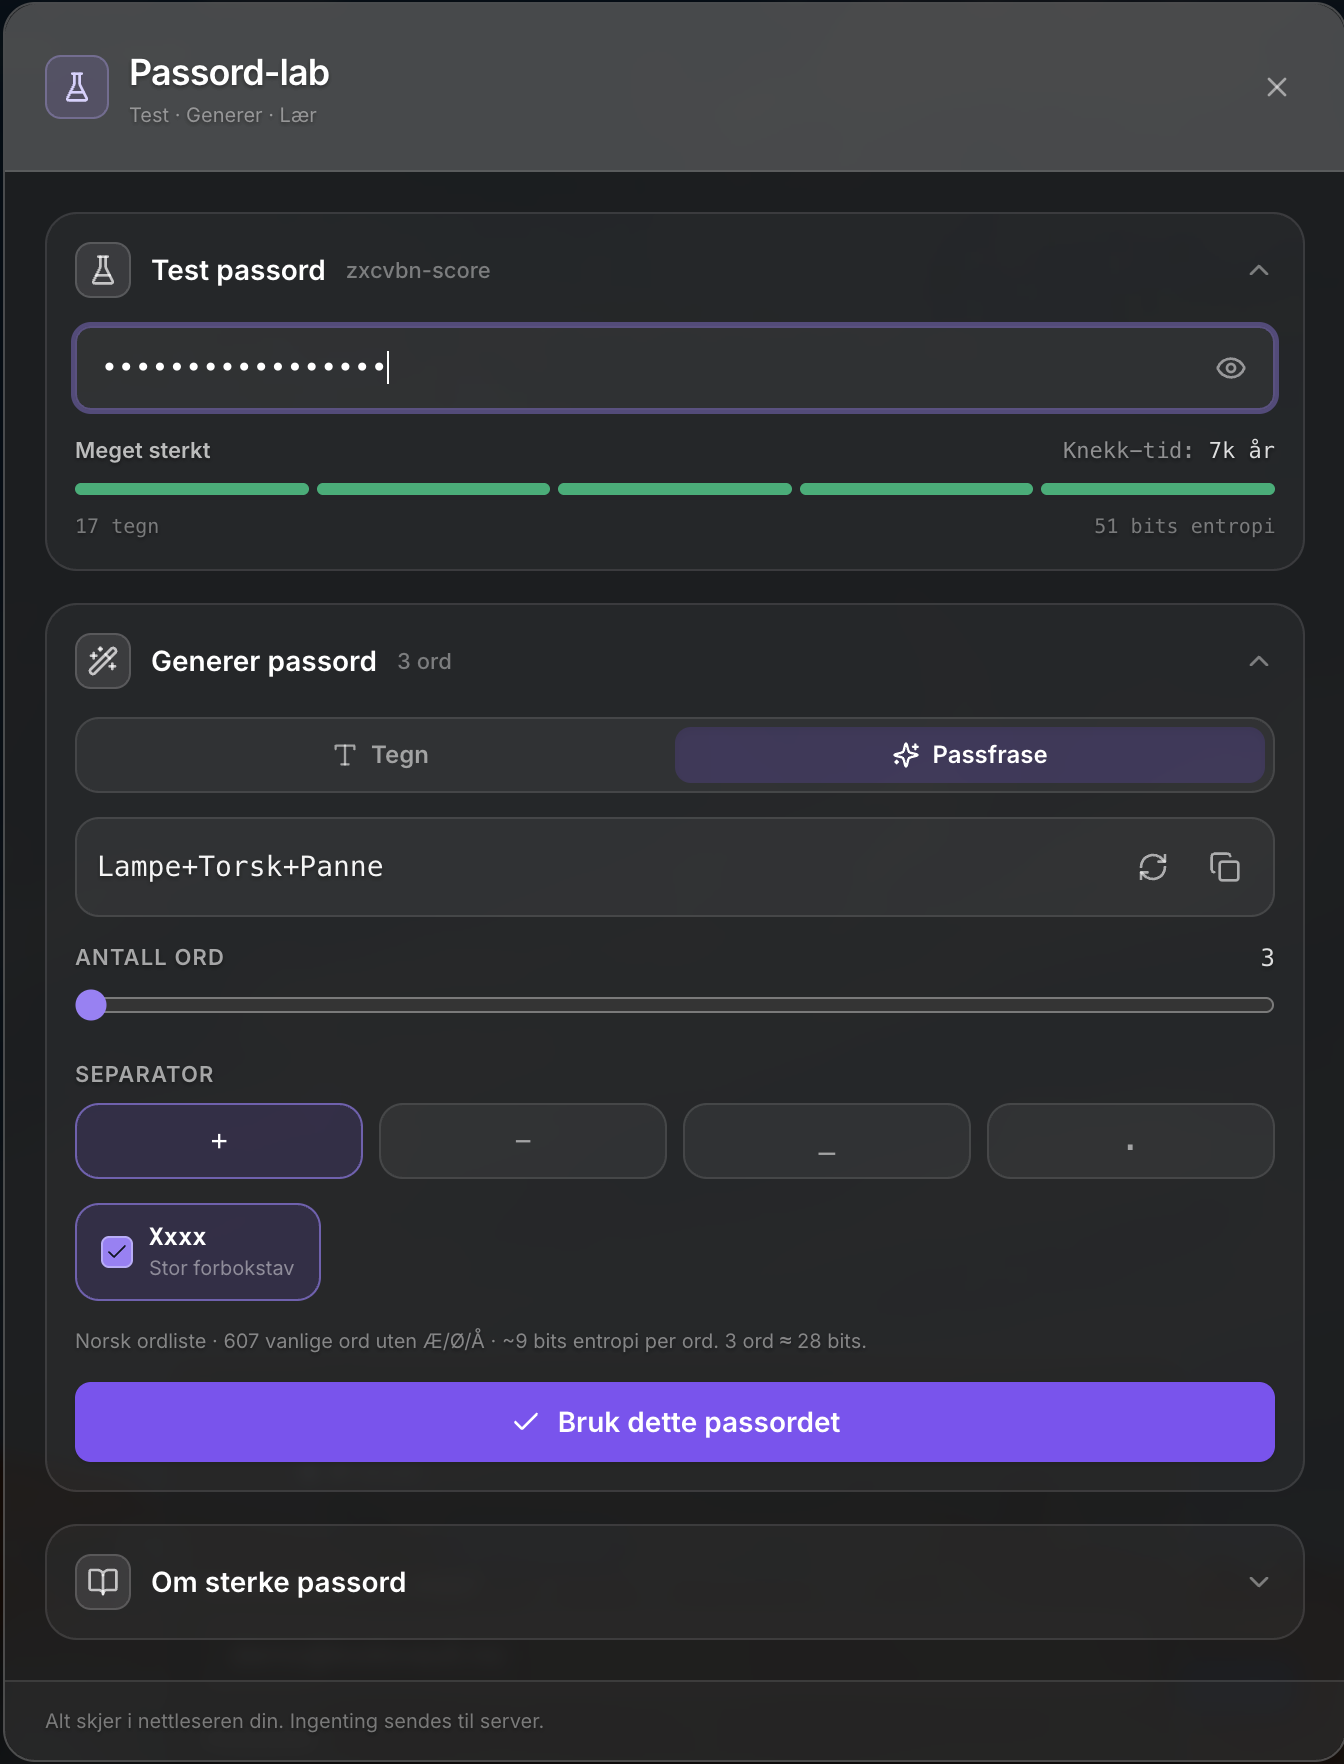
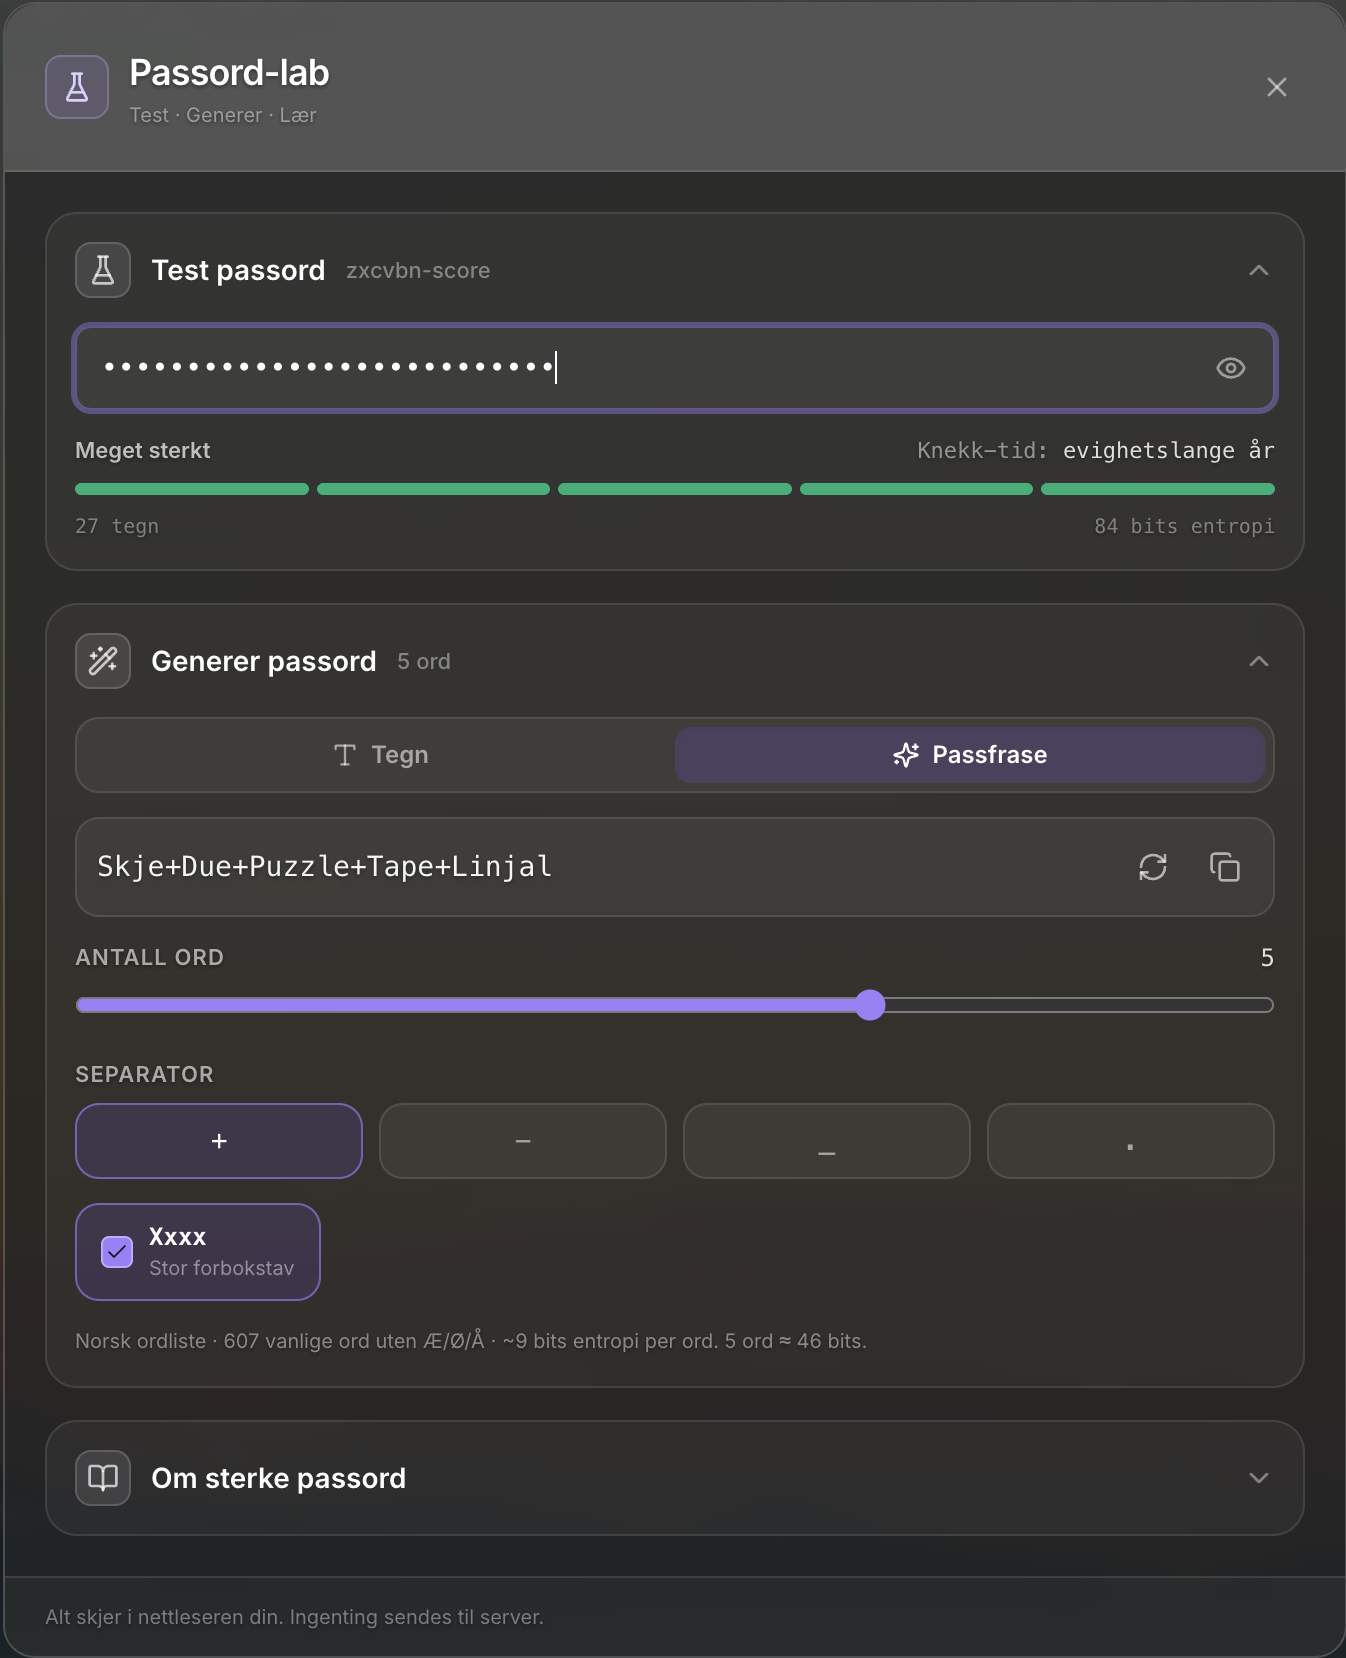
Showcase: Passord Lab v3 + backup-bilde, tre kort med fri høyde
- password-lab.png byttet til v3: 5-ords passfrase, 84 bits entropi,
  «evighetslange år». Erstatter v2 som viste svakere tall enn produktet
  faktisk leverer.
- backup.png inn som tredje kort — kryptert backup, Bitwarden-kompatibel
  CSV og permanent sletting. Visuelt bevis for FAQ 4 (ingen lock-in).
- AppShot bruker nå bildets naturlige høyde i stedet for fast 4:5.
  Skjermbildene spriker i format (0,81 til 1,18) og ble enten beskåret
  eller fikk store tomrom. Nå passer alle formater uten tilpasning.
- Grid utvidet fra to til tre kolonner.

De tre bildene forteller nå produktets livsløp: opprett, bruk, gå når du
vil — og speiler de tre prinsippene lenger opp på siden.

Verifisert: next build grønt.

Claude-Session: https://claude.ai/code/session_01DuJq2M8nKfYLM74qMw1WHt

diff --git a/frontend/components/ShowcaseSection.tsx b/frontend/components/ShowcaseSection.tsx
@@ -85,19 +85,19 @@ function AppShot({
       className="rounded-2xl overflow-hidden border border-white/12 bg-black/40 backdrop-blur-xl"
       style={{ boxShadow: "0 30px 70px -25px rgba(0,0,0,.7)" }}
     >
-      <div className="relative" style={{ aspectRatio: "4 / 5" }}>
-        {ok ? (
-          <img
-            src={src}
-            alt={alt}
-            loading="lazy"
-            onError={() => setOk(false)}
-            className="absolute inset-0 h-full w-full object-contain"
-          />
-        ) : (
+      {ok ? (
+        <img
+          src={src}
+          alt={alt}
+          loading="lazy"
+          onError={() => setOk(false)}
+          className="block w-full h-auto"
+        />
+      ) : (
+        <div className="relative" style={{ aspectRatio: "4 / 5" }}>
           <Pending label={pending} />
-        )}
-      </div>
+        </div>
+      )}
     </div>
   );
 }
@@ -136,7 +136,7 @@ export function ShowcaseSection({ locale }: ShowcaseSectionProps) {
           </figcaption>
         </figure>
 
-        <div className="grid grid-cols-1 sm:grid-cols-2 gap-10 sm:gap-8 mt-14">
+        <div className="grid grid-cols-1 sm:grid-cols-3 gap-10 sm:gap-6 mt-14 items-start">
           <figure className="m-0">
             <AppShot
               src="/shots/master-password.webp"
@@ -156,6 +156,17 @@ export function ShowcaseSection({ locale }: ShowcaseSectionProps) {
             />
             <figcaption className="mt-4 text-sm text-white/45 text-center">
               {s.shotLabCaption}
+            </figcaption>
+          </figure>
+
+          <figure className="m-0">
+            <AppShot
+              src="/shots/backup.png"
+              alt={s.shotBackupAlt}
+              pending={s.shotPending}
+            />
+            <figcaption className="mt-4 text-sm text-white/45 text-center">
+              {s.shotBackupCaption}
             </figcaption>
           </figure>
         </div>

diff --git a/frontend/lib/i18n.ts b/frontend/lib/i18n.ts
@@ -118,6 +118,9 @@ export const STRINGS = {
     shotLabAlt: "Passord Lab med estimert brute-force-tid",
     shotLabCaption:
       "Passord Lab: test styrke og generer norske passfraser. Alt skjer i nettleseren — ingenting sendes til server.",
+    shotBackupAlt: "Backup og eksport — kryptert backup, CSV-eksport og permanent sletting",
+    shotBackupCaption:
+      "Ta med deg alt når du vil: kryptert backup eller Bitwarden-kompatibel CSV. Og du kan slette alt permanent.",
 
     // FAQ
     faqEyebrow: "Spørsmål og svar",
@@ -281,6 +284,9 @@ export const STRINGS = {
     shotLabAlt: "Password Lab showing estimated brute-force time",
     shotLabCaption:
       "Password Lab: test strength and generate Norwegian passphrases. Everything happens in your browser.",
+    shotBackupAlt: "Backup and export — encrypted backup, CSV export and permanent deletion",
+    shotBackupCaption:
+      "Take everything with you whenever: encrypted backup or Bitwarden-compatible CSV. And you can delete it all permanently.",
 
     // FAQ
     faqEyebrow: "Questions and answers",
